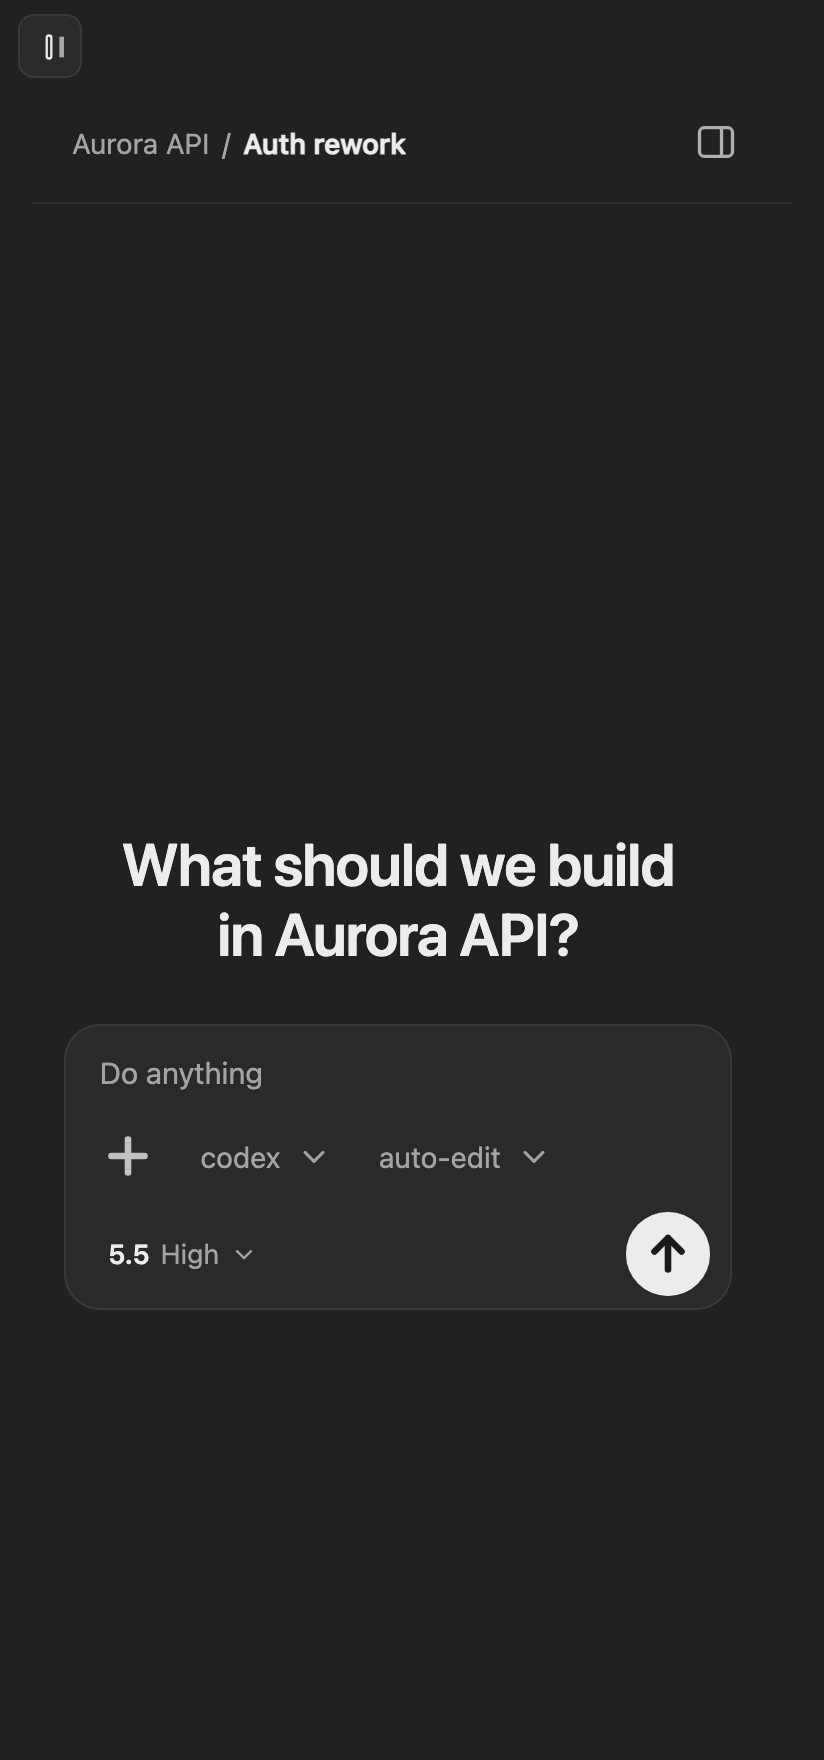
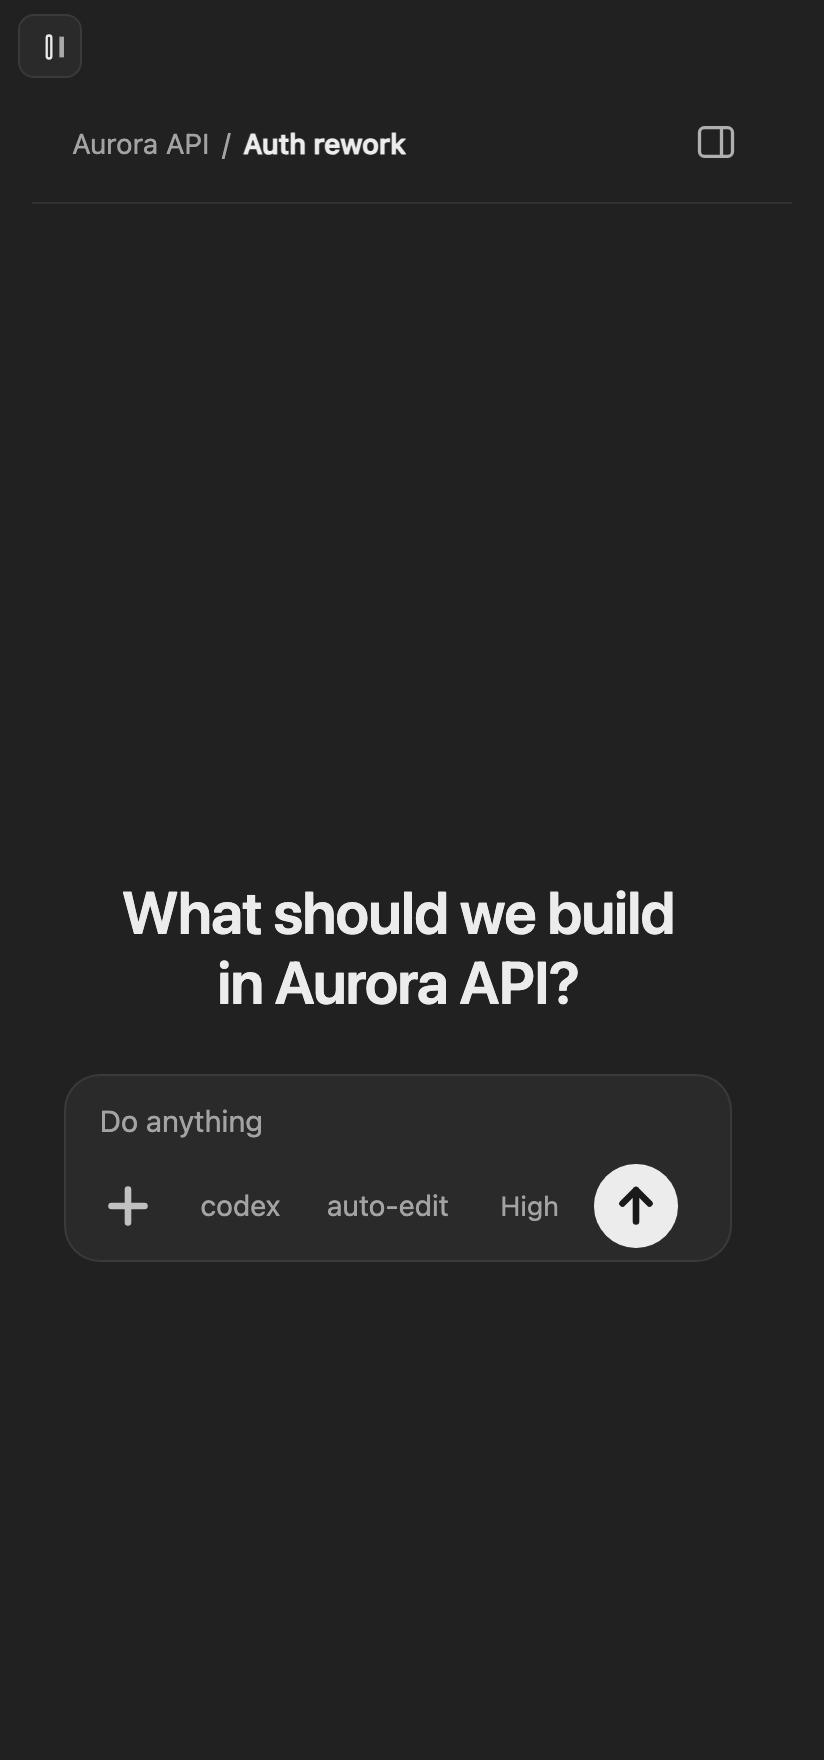
README: regenerate screenshots with fixed mobile composer + ASCII architecture diagram
- The phone screenshot was stale (captured before the composer fix), so it still
  showed the wrapped "5.5 High" row with a big lone Send. Regenerated all README
  shots: the phone now shows the single clean composer row (+ codex auto-edit High
  ⬆) with Send proportional and pinned.
- Replaced the Mermaid "How it works" flowchart with a clean ASCII (dash) diagram
  that renders identically everywhere — no Mermaid rendering needed.

Changed region(s): [[0.1214, 0.4688, 0.8192, 0.7188], [0.7282, 0.6562, 0.8799, 0.75], [0.4551, 0.6562, 0.6675, 0.6875]]

diff --git a/README.md b/README.md
@@ -88,18 +88,19 @@ Tailscale Funnel (public exposure) is intentionally not supported.
 
 ## How it works
 
-```mermaid
-flowchart LR
-  subgraph Mac["Your workstation"]
-    S["Orca server<br/>(local-first)"]
-    O["Orchestrator"]
-    E1["Executor lane<br/>Codex / Claude / ..."]
-    E2["Auditor lane"]
-    S --- O
-    O --- E1
-    O --- E2
-  end
-  P["Phone / laptop"] -- "pairing code over Tailscale" --> S
+```text
+  Your workstation  —  local-first, never exposed publicly
+  ──────────────────────────────────────────────────────────
+    Orca server
+       └─►  Orchestrator
+              ├─►  Executor lane   (Codex / Claude / API)
+              └─►  Auditor lane
+  ──────────────────────────────────────────────────────────
+                          ▲
+                          │   pair once with a one-time code,
+                          │   then drive it over Tailscale
+                          │
+              Phone   ·   laptop   ·   tablet
 ```
 
 - **Three trust tiers.** *Public* (liveness only) → *operator* (paired devices:
